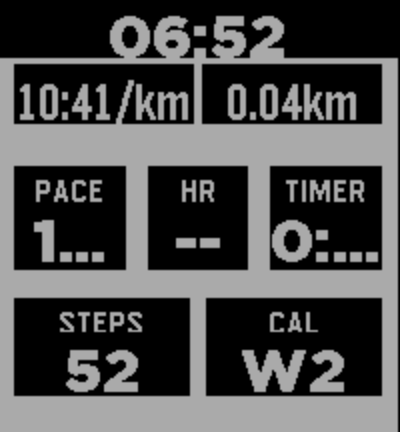
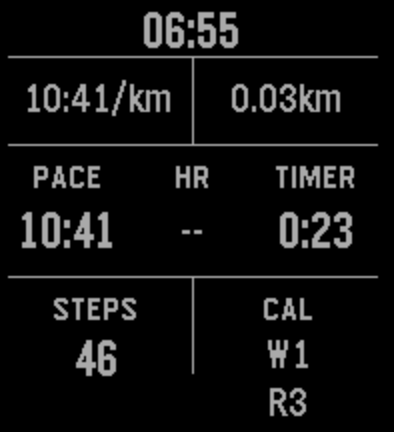
10x time in emulator runs

diff --git a/myfirstproject/src/c/myfirstproject.c b/myfirstproject/src/c/myfirstproject.c
@@ -61,6 +61,8 @@ static int32_t s_last_steps = 0;
 static time_t s_last_time = 0;
 static int64_t s_speed_mmps = 0;
 
+#define EMULATOR_TIME_SCALE 10
+
 static int64_t prv_weight_to_kg1000(int32_t value_tenths, int32_t unit) {
   if (unit == 1) {
     return ((int64_t)value_tenths * 453592) / 10000;
@@ -195,9 +197,13 @@ static void prv_save_settings(void) {
 
 static void prv_update_display(void) {
   time_t now = time(NULL);
-  int64_t elapsed_s = (int64_t)(now - s_start_time);
-  if (elapsed_s < 1) {
-    elapsed_s = 1;
+  int64_t elapsed_real_s = (int64_t)(now - s_start_time);
+  if (elapsed_real_s < 1) {
+    elapsed_real_s = 1;
+  }
+  int64_t elapsed_s = elapsed_real_s;
+  if (s_settings.sim_steps_enabled) {
+    elapsed_s *= EMULATOR_TIME_SCALE;
   }
 
   int32_t steps = 0;
@@ -219,12 +225,16 @@ static void prv_update_display(void) {
   }
   int64_t speed_mmps = s_speed_mmps;
   int64_t delta_s = (int64_t)(now - s_last_time);
-  if (delta_s >= 5) {
+  int64_t delta_scaled_s = delta_s;
+  if (s_settings.sim_steps_enabled) {
+    delta_scaled_s *= EMULATOR_TIME_SCALE;
+  }
+  if (delta_scaled_s >= 5) {
     int32_t delta_steps = steps - s_last_steps;
     if (delta_steps < 0) {
       delta_steps = 0;
     }
-    speed_mmps = (int64_t)delta_steps * stride_mm / delta_s;
+    speed_mmps = (int64_t)delta_steps * stride_mm / delta_scaled_s;
     s_last_time = now;
     s_last_steps = steps;
     s_speed_mmps = speed_mmps;
